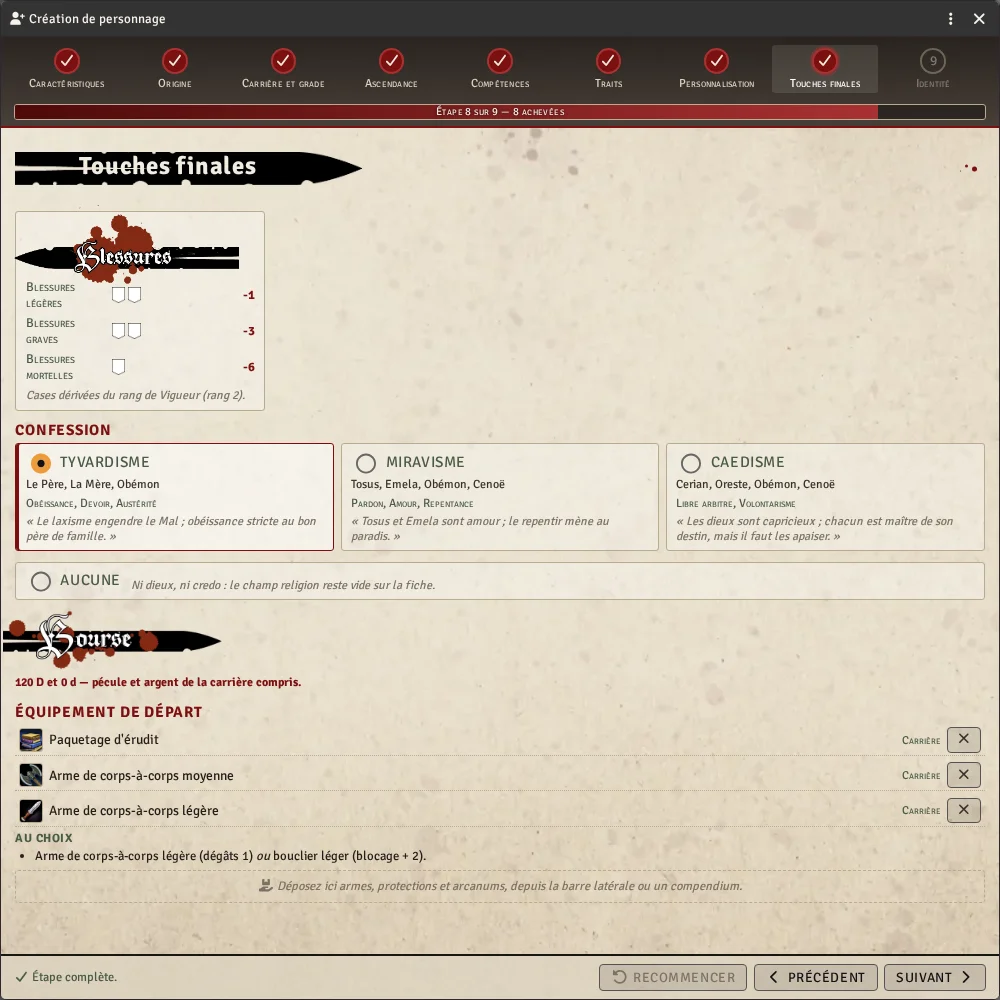
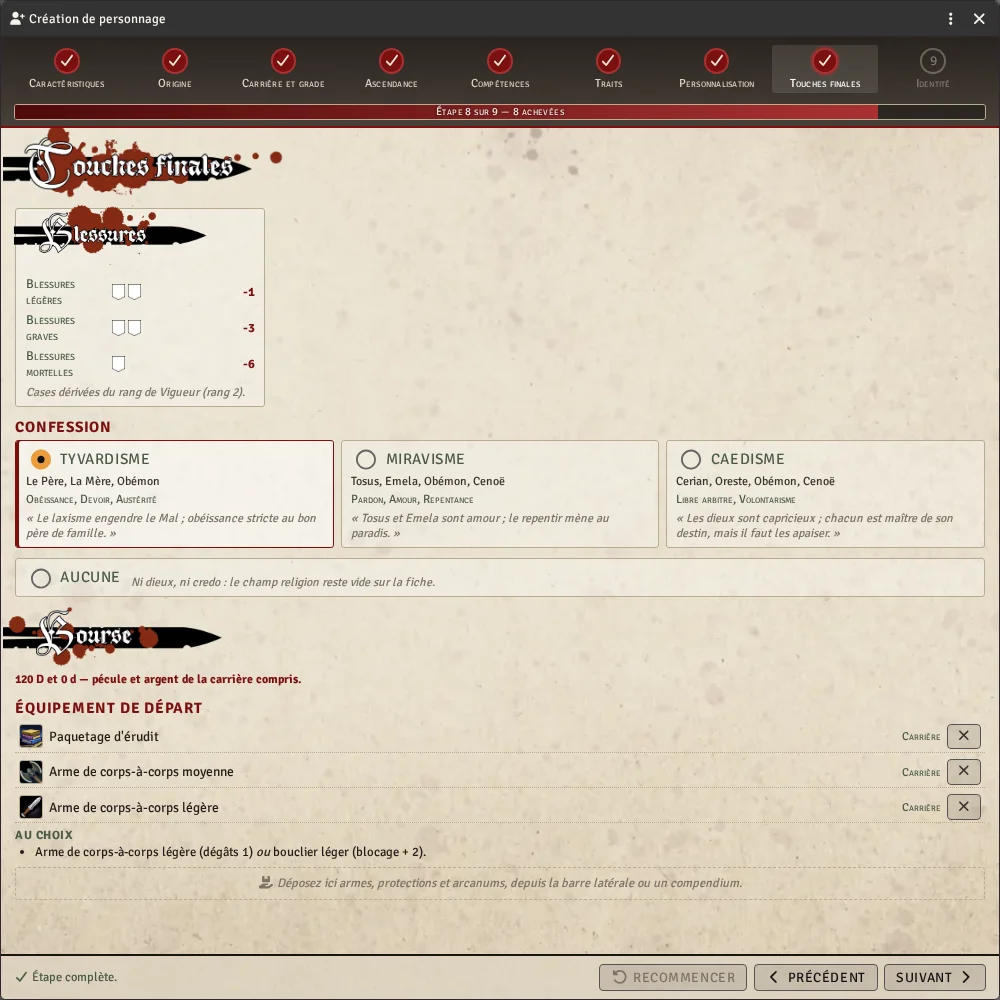
Guide : captures refaites après les titres des assistants
Les captures des assistants de création de personnage (8) et de compagnie (2) montrent les nouveaux bandeaux de titre ; celles du suivi en duel et de la confrontation, le dé d'initiative masqué avant le début du combat et la mention « Action résolue ».

Changed region(s): [[0.0, 0.124, 0.744, 0.899], [0.682, 0.434, 0.961, 0.558], [0.899, 0.713, 0.992, 0.837]]

diff --git a/CHANGELOG.md b/CHANGELOG.md
@@ -1,3 +1,7 @@
+## 0.9.2
+
+- **Guide du système** : captures des assistants de création de personnage et de compagnie refaites avec les nouveaux titres, ainsi que celles du suivi en duel et de la confrontation résolue.
+
 ## 0.9.1
 - Ajout des titres stylisés manquant pour les aides à la création.
 
